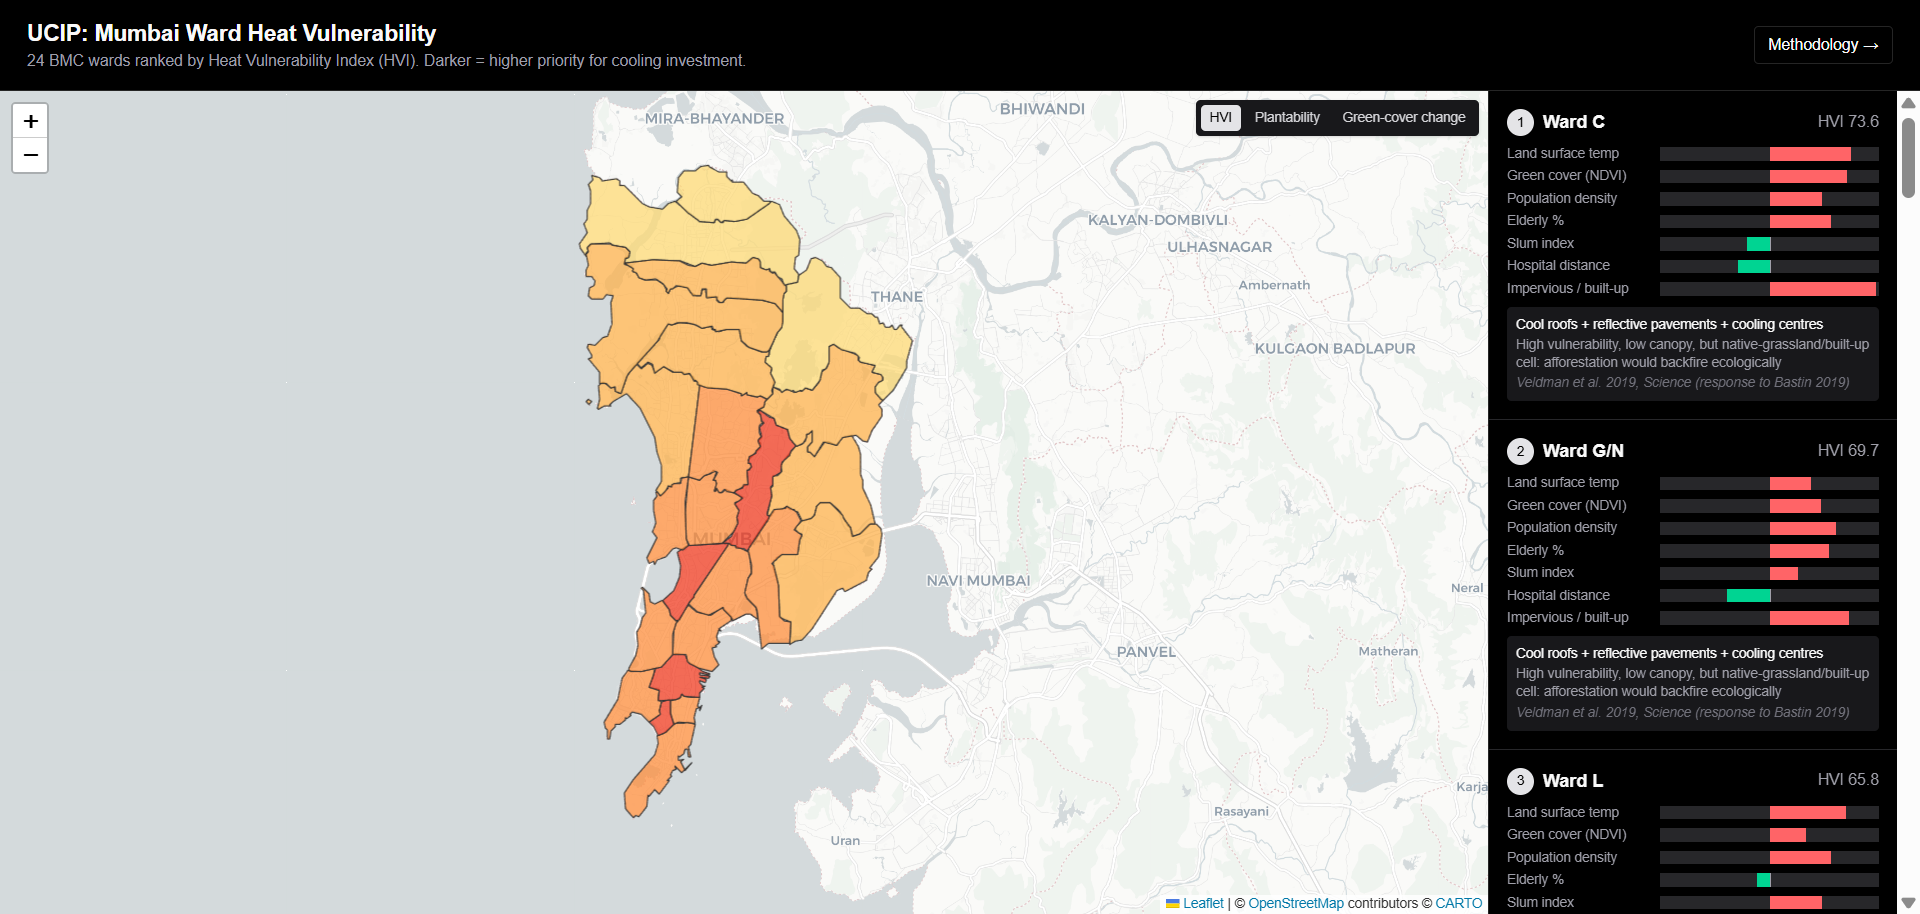
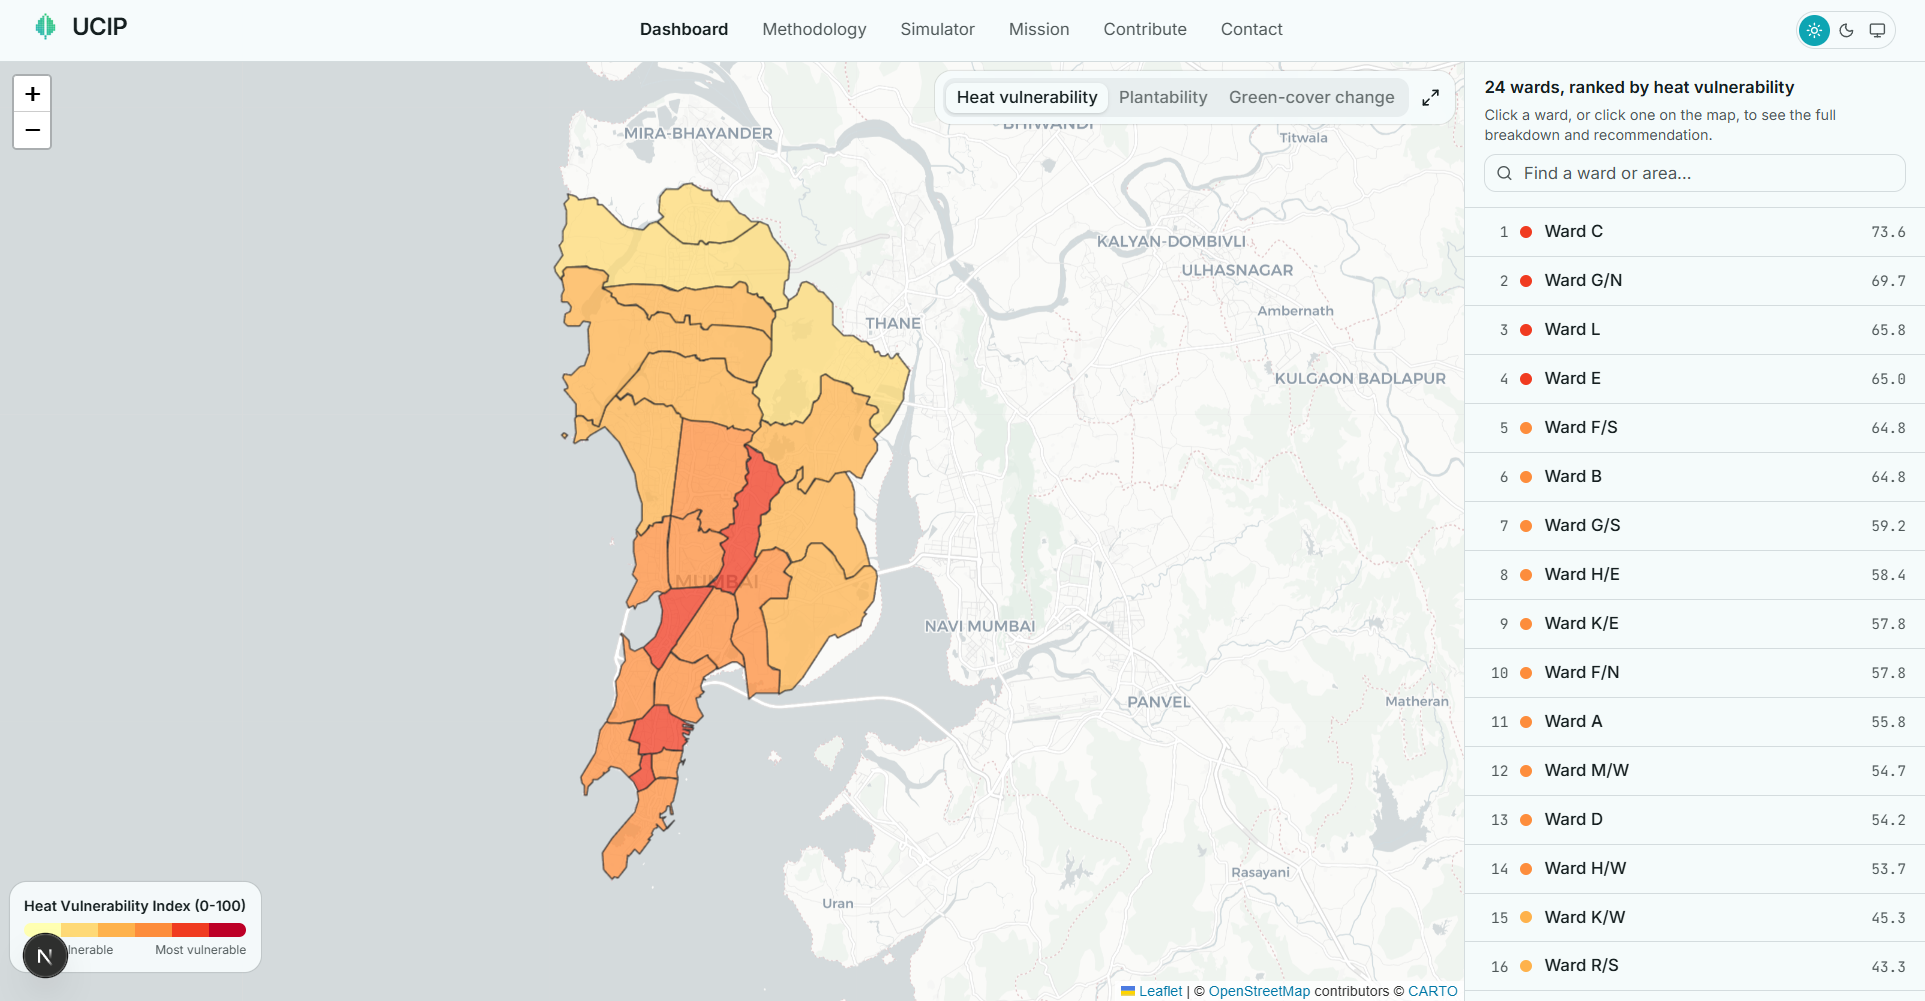
fix: solid dark hero text (no white-outline shadow), refresh map-preview screenshot, theme fullscreen ward popup for dark mode

diff --git a/frontend/src/app/globals.css b/frontend/src/app/globals.css
@@ -191,27 +191,50 @@ html {
 }
 
 /* Legibility scrim over HeroGradient's animated backdrop, opacity-only (no blur).
-   Kept light so the gradient reads as a real, visible presence, not a tint. */
+   Kept light so the gradient reads as a real, visible presence, not a tint.
+   Light mode gets a bit more than dark mode: since light-mode text is solid
+   ink-black with no shadow/outline crutch, it needs a calmer backdrop to
+   stay clearly distinct; dark mode's near-white text already has its own
+   shadow doing that work, so it can keep a livelier, thinner scrim. */
 .mesh-hero-scrim {
+  background: color-mix(in oklab, var(--background) 50%, transparent);
+}
+.dark .mesh-hero-scrim {
   background: color-mix(in oklab, var(--background) 38%, transparent);
 }
 
-/* Text sitting directly on the animated mesh needs a legibility floor that
-   doesn't read as a blurred halo. Light mode's dark-charcoal text already has
-   fine base contrast against the gradient, so it gets a tight, zero-blur
-   4-direction outline (a hairline lift, not a glow) rather than a soft
-   drop-shadow, which just muddies already-crisp text. Dark mode's near-white
-   text genuinely needs a real shadow, since the gradient's darker stops can
-   get close to that foreground color. */
+/* Light mode: no shadow/outline trick at all. Text stays solid ink-black,
+   distinctiveness comes from the scrim underneath it plus a slightly
+   stronger local scrim (see .mesh-hero-scrim), not from decorating the
+   text itself. Dark mode's near-white text still needs a real shadow,
+   since the gradient's darker stops can get close to that foreground
+   color. */
 .hero-text-shadow {
-  text-shadow:
-    1px 1px 0 rgb(255 255 255 / 65%),
-    -1px -1px 0 rgb(255 255 255 / 65%),
-    1px -1px 0 rgb(255 255 255 / 65%),
-    -1px 1px 0 rgb(255 255 255 / 65%);
+  text-shadow: none;
 }
 .dark .hero-text-shadow {
   text-shadow: 0 2px 18px rgb(0 0 0 / 45%), 0 1px 3px rgb(0 0 0 / 55%);
+}
+
+/* Leaflet's own stylesheet (imported inside WardChoropleth.tsx, so it lands
+   after this file in the bundle) hardcodes white/black popup chrome at equal
+   selector specificity — !important is the only way to win that source-order
+   tie and theme the fullscreen ward popup to dark mode. Content itself uses
+   var(--foreground)/var(--muted-foreground) inline. */
+.leaflet-popup-content-wrapper {
+  background: var(--surface) !important;
+  color: var(--foreground) !important;
+  border: 1px solid var(--border) !important;
+}
+.leaflet-popup-tip {
+  background: var(--surface) !important;
+  border: 1px solid var(--border) !important;
+}
+.leaflet-popup-close-button {
+  color: var(--muted-foreground) !important;
+}
+.leaflet-popup-close-button:hover {
+  color: var(--foreground) !important;
 }
 
 @keyframes fade-up {

diff --git a/frontend/src/app/components/WardChoropleth.tsx b/frontend/src/app/components/WardChoropleth.tsx
@@ -356,25 +356,25 @@ export default function WardChoropleth({
     const cited = rec ? matchCitationFromText(rec.citation) : undefined;
 
     const hviLine = p
-      ? `<div style="font-size:12px;color:#52525b;margin-top:2px;">HVI ${p.HVI !== null ? p.HVI.toFixed(1) : "n/a"} &middot; priority ${p.rank ?? "n/a"} of 24</div>`
+      ? `<div style="font-size:12px;color:var(--muted-foreground);margin-top:2px;">HVI ${p.HVI !== null ? p.HVI.toFixed(1) : "n/a"} &middot; priority ${p.rank ?? "n/a"} of 24</div>`
       : "";
     const areasLine = areas.length
-      ? `<div style="font-size:11px;color:#71717a;margin-top:4px;">${areas.join(", ")}</div>`
+      ? `<div style="font-size:11px;color:var(--muted-foreground);margin-top:4px;">${areas.join(", ")}</div>`
       : "";
     const sourceHtml = cited
-      ? `<a href="https://doi.org/${cited.doi}" target="_blank" rel="noopener noreferrer" style="color:#0EA5B3;">${cited.authors}</a> &middot; ${cited.year}`
+      ? `<a href="https://doi.org/${cited.doi}" target="_blank" rel="noopener noreferrer" style="color:var(--brand-teal);">${cited.authors}</a> &middot; ${cited.year}`
       : rec
         ? `<span style="font-style:italic;">${rec.citation}</span>`
         : "";
     const recBlock = rec
-      ? `<div style="margin-top:8px;padding-top:8px;border-top:1px solid #e4e4e7;">
-           <div style="font-size:12px;font-weight:600;color:#18181b;">${rec.intervention}</div>
-           <div style="font-size:11px;color:#52525b;margin-top:2px;">${rec.rationale}</div>
-           <div style="font-size:11px;color:#71717a;margin-top:4px;">${sourceHtml}</div>
+      ? `<div style="margin-top:8px;padding-top:8px;border-top:1px solid var(--border);">
+           <div style="font-size:12px;font-weight:600;color:var(--foreground);">${rec.intervention}</div>
+           <div style="font-size:11px;color:var(--muted-foreground);margin-top:2px;">${rec.rationale}</div>
+           <div style="font-size:11px;color:var(--muted-foreground);margin-top:4px;">${sourceHtml}</div>
          </div>`
       : "";
 
-    return `<div style="min-width:200px;"><div style="font-size:14px;font-weight:700;color:#18181b;">Ward ${wardId}</div>${hviLine}${areasLine}${recBlock}</div>`;
+    return `<div style="min-width:200px;"><div style="font-size:14px;font-weight:700;color:var(--foreground);">Ward ${wardId}</div>${hviLine}${areasLine}${recBlock}</div>`;
   }
 
   function selectFrom<P extends { ward_id: string }>(feature: Feature<Geometry, P>, layer: Layer) {

diff --git a/frontend/src/app/components/LiveTempStrip.tsx b/frontend/src/app/components/LiveTempStrip.tsx
@@ -36,7 +36,7 @@ export default function LiveTempStrip() {
 
   return (
     <div className="flex flex-col gap-2">
-      <span className="inline-flex w-fit items-center gap-2 rounded-full border border-border bg-surface/70 px-3 py-1.5 text-sm backdrop-blur-sm">
+      <span className="inline-flex w-fit items-center gap-2 rounded-full border border-border bg-surface/85 px-3 py-1.5 text-sm backdrop-blur-sm">
         <span className="relative flex h-2 w-2 shrink-0" aria-hidden>
           {status === "ok" && (
             <span className="absolute inline-flex h-full w-full animate-ping rounded-full bg-brand-emerald/70" />
@@ -48,20 +48,20 @@ export default function LiveTempStrip() {
           />
         </span>
         <Thermometer className="h-4 w-4 shrink-0 text-brand-teal" aria-hidden />
-        {status === "loading" && <span className="text-muted-foreground">Checking Mumbai now…</span>}
+        {status === "loading" && <span className="text-foreground">Checking Mumbai now…</span>}
         {status === "ok" && tempC !== null && (
-          <span className="text-muted-foreground">
+          <span className="text-foreground">
             Mumbai now{" "}
             <span className="font-mono font-medium text-foreground">{tempC.toFixed(1)}°C</span> air
           </span>
         )}
         {status === "unavailable" && (
-          <span className="text-muted-foreground">Live air temperature unavailable</span>
+          <span className="text-foreground">Live air temperature unavailable</span>
         )}
       </span>
-      <span className="max-w-md text-xs leading-relaxed text-muted-foreground">
+      <span className="hero-text-shadow max-w-md text-xs leading-relaxed text-foreground">
         The map measures land-surface temperature, a related but different number.{" "}
-        <Link href="/methodology#limitations" className="text-brand-teal hover:underline">
+        <Link href="/methodology#limitations" className="font-semibold text-foreground underline">
           See why that matters
         </Link>
         .

diff --git a/frontend/src/app/components/sections/Hero.tsx b/frontend/src/app/components/sections/Hero.tsx
@@ -8,16 +8,16 @@ export default function Hero() {
       <HeroGradient />
       <div className="relative mx-auto max-w-5xl px-6 py-20 md:py-28">
         <div className="max-w-3xl animate-fade-up">
-          <p className="hero-text-shadow kicker text-foreground/80">Urban Climate Intelligence Platform</p>
+          <p className="hero-text-shadow kicker !text-foreground">Urban Climate Intelligence Platform</p>
           <h1 className="hero-text-shadow mt-4 text-4xl font-bold leading-[1.08] tracking-tight text-foreground sm:text-5xl md:text-6xl">
-            Mumbai ward-level heat vulnerability,{" "}
-            <span className="font-black">decision-support you can act on.</span>
+            Mumbai&apos;s ward-level heat vulnerability,{" "}
+            <span className="font-black">turned into decisions you can act on.</span>
           </h1>
           <div className="mt-6 h-1.5 w-44 rounded-full bg-gradient-to-r from-brand-teal to-brand-emerald" />
-          <p className="hero-text-shadow mt-6 max-w-xl text-lg leading-relaxed text-foreground/75">
-            UCIP scores heat vulnerability across all 24 city wards from satellite and population
-            data, then recommends what to build where: trees, cool roofs, shaded cooling centres.
-            Every number is computed, every claim cites its source.
+          <p className="hero-text-shadow mt-6 max-w-xl text-lg leading-relaxed text-foreground">
+            UCIP scores heat vulnerability across all 24 city wards using satellite and population
+            data, then recommends what to build where: trees, cool roofs, or shaded cooling centres.
+            Every number is computed. Every claim cites its source.
           </p>
           <div className="mt-8 flex flex-wrap items-center gap-3">
             <Link
